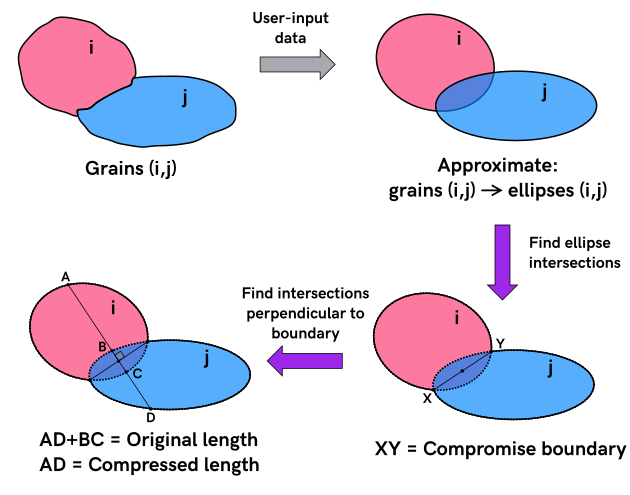
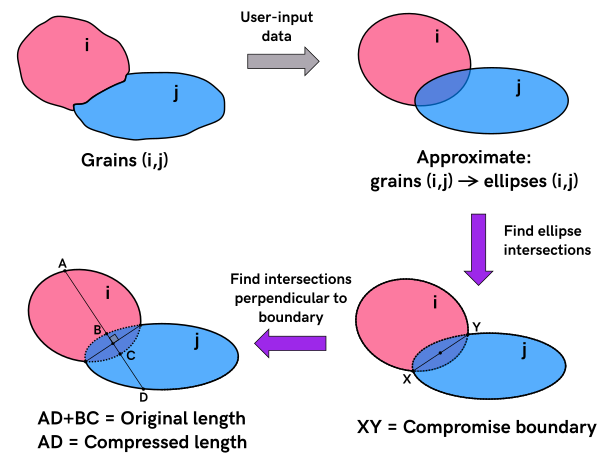
Small update to Adapted Figure and to README
Replaced Figure

diff --git a/README.md b/README.md
@@ -76,5 +76,5 @@ Two sample data files have been provided by _____.
 
 ## References:
 
-1. Charles M. Onasch, "Determination of pressure solution shortening in sandstones", *Tectonophysics*, **1993**, 227, pp. 145-159. DOI: [](https://doi.org/10.1016/0040-1951(93)90092-X)
+1. Charles M. Onasch, "Determination of pressure solution shortening in sandstones", *Tectonophysics*, **1993**, 227, pp. 145-159. DOI: [10.1016/0040-1951(93)90092-X](https://doi.org/10.1016/0040-1951(93)90092-X)
 2. Nichole Pierson, "Assessing Layer Parallel Shortening in the Easter Colorado Front Range Using Tin Section Analysis and Analog Sandbox Models". MSc Thesis, University of Nebraska - Lincoln, Department of Earth and Atmospheric Sciences, 2014. URL: [http://digitalcommons.unl.edu/geoscidiss/51](htp://digitalcommons.unl.edu/geoscidiss/51)
